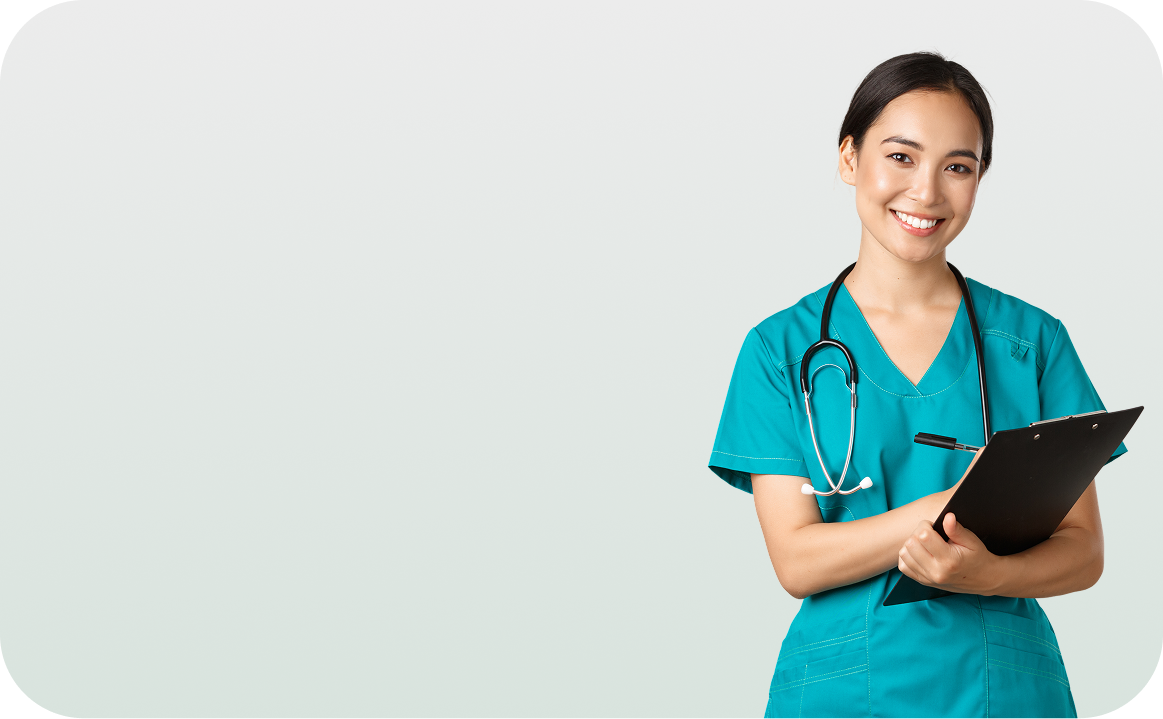
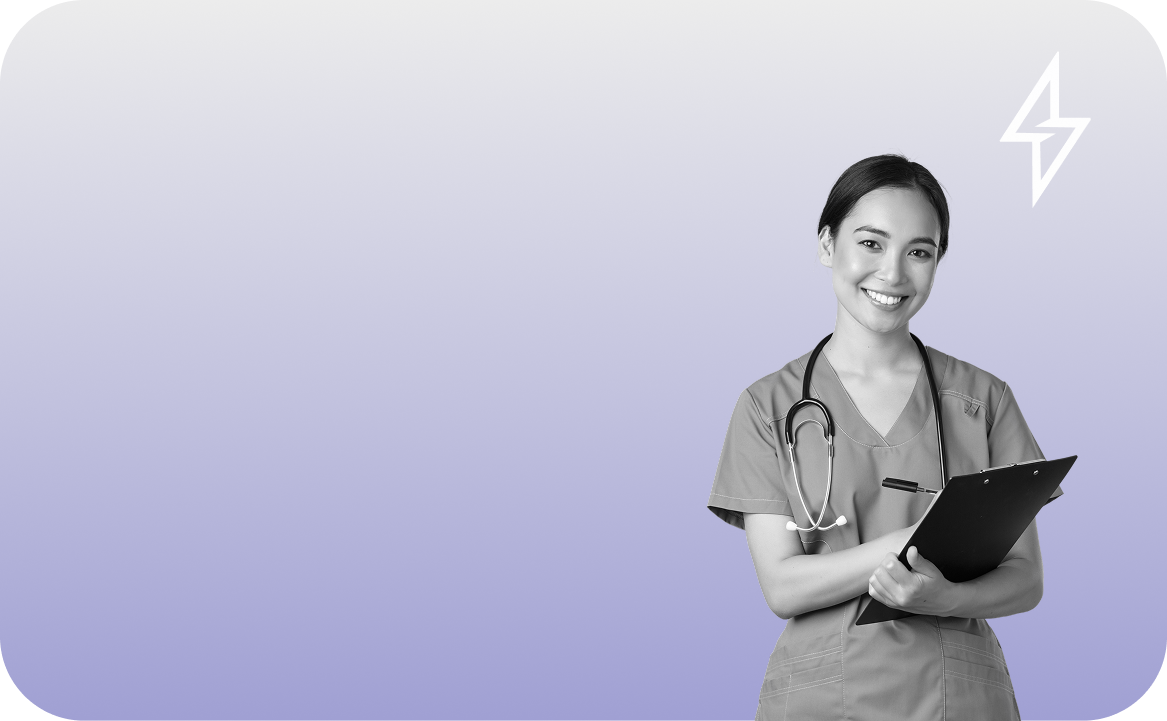
fix: resolve patient portal race condition and adjust hero card layout to prevent text overflow

diff --git a/src/pages/PatientPortal.jsx b/src/pages/PatientPortal.jsx
@@ -632,10 +632,10 @@ export default function PatientPortal({ patient: initialPatient }) {
                 <div style={{
                     position: 'relative',
                     width: '100%',
-                    height: '280px',
-                    borderRadius: '40px',
+                    height: '215px',
+                    borderRadius: '32px',
                     overflow: 'hidden',
-                    marginBottom: '32px',
+                    marginBottom: '24px',
                     background: '#f9fafb',
                     animation: isUpToDate ? 'glowPulse 3s infinite alternate' : 'none',
                     boxShadow: '0 10px 30px rgba(179, 150, 122, 0.1)'
@@ -663,59 +663,48 @@ export default function PatientPortal({ patient: initialPatient }) {
                     <div style={{
                         position: 'absolute',
                         inset: 0,
-                        padding: '32px 40px',
+                        padding: '20px 24px',
                         display: 'flex',
                         flexDirection: 'column',
                         justifyContent: 'space-between',
                         background: 'transparent',
                         zIndex: 2
                     }}>
-                        <div style={{ maxWidth: '75%', position: 'relative' }}>
+                        <div style={{ maxWidth: '65%', position: 'relative' }}>
 
                             <h2 style={{ 
-                                fontSize: '28px', 
+                                fontSize: '21px', 
                                 fontWeight: '500', 
                                 color: '#4b5563', 
-                                marginBottom: '8px',
+                                marginBottom: '4px',
                                 letterSpacing: '-0.02em',
-                                lineHeight: 1.1
+                                lineHeight: 1.15
                             }}>
                                 {t('Préparez-vous en toute sérénité !')}
                             </h2>
                             <p style={{ 
-                                fontSize: '12px', 
+                                fontSize: '11px', 
                                 color: '#6b7280', 
-                                marginBottom: '24px',
-                                lineHeight: 1.5,
-                                maxWidth: '200px'
+                                marginBottom: '12px',
+                                lineHeight: 1.4,
+                                maxWidth: '180px'
                             }}>
                                 {t('Répondez à des questions de suivi pour préparer votre opération')}
                             </p>
 
-                            <div style={{ display: 'flex', alignItems: 'center', gap: '10px' }}>
-                                <div style={{
-                                    background: isUpToDate ? '#10B981' : '#F59E0B',
-                                    width: '24px',
-                                    height: '24px',
-                                    borderRadius: '50%',
-                                    display: 'flex',
-                                    alignItems: 'center',
-                                    justifyContent: 'center',
-                                    border: '1.5px solid white'
-                                }}>
-                                    <CheckCircle2 size={12} color="white" />
-                                </div>
-                                <span style={{ fontSize: '16px', fontWeight: '700', color: '#4b5563' }}>
+                            <div style={{ display: 'flex', alignItems: 'center', gap: '6px' }}>
+                                <CheckCircle2 size={16} color={isUpToDate ? '#10B981' : '#F59E0B'} style={{ flexShrink: 0 }} />
+                                <span style={{ fontSize: '13px', fontWeight: '600', color: '#4b5563' }}>
                                     {isUpToDate ? t('Vous êtes à jour !') : t('Vous n’êtes pas à jour !')}
                                 </span>
                             </div>
                         </div>
 
                         <div>
-                            <p style={{ fontSize: '13px', fontWeight: '600', color: '#9ca3af', marginBottom: '4px' }}>
+                            <p style={{ fontSize: '11px', fontWeight: '600', color: '#9ca3af', marginBottom: '2px' }}>
                                 {nextMilestoneLabel ? t('Prochaines questions dans :') : t('Parcours terminé !')}
                             </p>
-                            <div style={{ fontSize: timeLeft.includes('j') ? '32px' : '36px', fontWeight: '800', letterSpacing: '0.05em', color: '#4b5563' }}>
+                            <div style={{ fontSize: timeLeft.includes('j') ? '24px' : '28px', fontWeight: '800', letterSpacing: '0.05em', color: '#4b5563' }}>
                                 {nextMilestoneLabel && timeLeft !== '00:00:00' ? timeLeft : '00:00:00'}
                             </div>
                         </div>

diff --git a/refresh_statuses.js b/refresh_statuses.js
@@ -1,75 +1,42 @@
 import { createClient } from '@supabase/supabase-js';
 import fs from 'fs';
 
-// Manual env loading
+// Manual env loading to process.env so that pathways service gets credentials
 const envLocal = fs.readFileSync('.env.local', 'utf8');
-const envVars = {};
 envLocal.split('\n').forEach(line => {
     const [key, value] = line.split('=');
-    if (key && value) envVars[key.trim()] = value.trim().replace(/^["']|["']$/g, '');
+    if (key && value) {
+        process.env[key.trim()] = value.trim().replace(/^["']|["']$/g, '');
+    }
 });
 
-const supabaseUrl = envVars.VITE_SUPABASE_URL;
-const supabaseKey = envVars.VITE_SUPABASE_ANON_KEY;
+// Dynamically import pathwayService after process.env is set
+const { calculateGlobalProgress } = await import('./src/services/pathwayService.js');
+
+const supabaseUrl = process.env.VITE_SUPABASE_URL;
+const supabaseKey = process.env.VITE_SUPABASE_ANON_KEY;
 const supabase = createClient(supabaseUrl, supabaseKey);
 
 async function refreshStatuses() {
-    console.log('Starting final status refresh with aggressive logic...');
+    console.log('Starting final status refresh with official service logic...');
 
     const { data: patients, error: pError } = await supabase
         .from('patients')
-        .select('*');
+        .select('id, name');
 
     if (pError) return console.error(pError);
 
     for (const patient of patients) {
         try {
-            const { data: responses } = await supabase
-                .from('pathway_responses')
-                .select('*')
-                .eq('patient_id', patient.id);
-
-            const progress = patient.progress || 0;
-            const createdAt = new Date(patient.created_at);
-            const surgeryDate = patient.date ? new Date(patient.date) : null;
-            const now = new Date();
-            const hoursSinceCreation = (now - createdAt) / (1000 * 60 * 60);
-            const daysUntilSurgery = surgeryDate ? Math.ceil((surgeryDate - now) / (1000 * 60 * 60 * 24)) : 999;
-
-            const hasAnyResponse = (responses || []).length > 0;
-            const isJ7Complete = (responses || []).filter(r => r.screen === 'J7' && r.completed_at).length > 0;
-
-            let status = 'neutre';
-
-            if (progress === 100) {
-                status = 'ready';
-            } else {
-                // Timing logic
-                if (!hasAnyResponse && hoursSinceCreation > 24) {
-                    status = 'alerte';
-                } else if (!isJ7Complete && daysUntilSurgery <= 7) {
-                    status = 'alerte';
-                } else if (progress < 50 && daysUntilSurgery <= 7) {
-                    status = 'alerte';
-                }
-
-                // Upgrade logic
-                if ((status === 'alerte' || progress < 80) && daysUntilSurgery <= 3) {
-                    status = 'critique';
-                }
-
-                if (status === 'neutre' && progress > 0) {
-                    status = 'incomplete';
-                }
-            }
-
-            if (status !== patient.status) {
-                console.log(`Update ${patient.name} (${patient.id}): ${patient.status} -> ${status}`);
-                await supabase.from('patients').update({ status }).eq('id', patient.id);
-            }
-        } catch (e) { console.error(e); }
+            console.log(`Recalculating status & progress for ${patient.name} (${patient.id})...`);
+            const progress = await calculateGlobalProgress(patient.id);
+            console.log(`-> Progress: ${progress}%`);
+        } catch (e) {
+            console.error(`Error updating patient ${patient.name} (${patient.id}):`, e);
+        }
     }
     console.log('Done.');
 }
 
 refreshStatuses();
+

diff --git a/src/components/pathway/QuestionnaireFlow.jsx b/src/components/pathway/QuestionnaireFlow.jsx
@@ -124,9 +124,9 @@ export default function QuestionnaireFlow({
             // Save to custom_questions table
             await answerCustomQuestion(currentItem.originalId, value);
             // Update local responses state via parent
-            onChange(itemId, value);
+            await onChange(itemId, value);
         } else {
-            onChange(itemId, value);
+            await onChange(itemId, value);
         }
 
         // Ludic: If it's a yes_no or select, we can auto-advance after 500ms

diff --git a/src/services/pathwayService.js b/src/services/pathwayService.js
@@ -364,6 +364,9 @@ export async function markScreenCompleted(patientId, screen) {
 
         if (error) throw error;
 
+        // Recalculate progress/status after marking the screen completed
+        await calculateGlobalProgress(patientId);
+
         return { success: true };
     } catch (error) {
         console.error('Error marking screen completed:', error);
